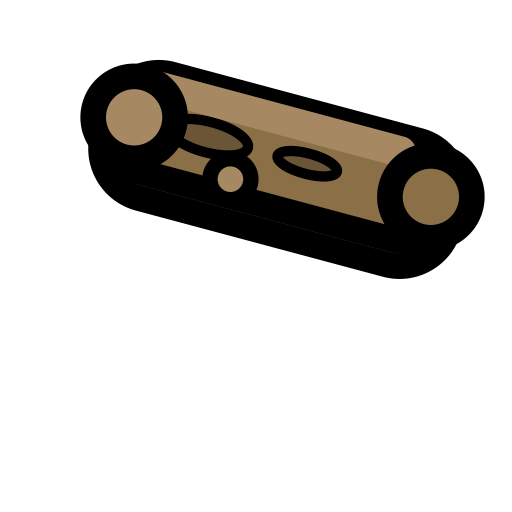
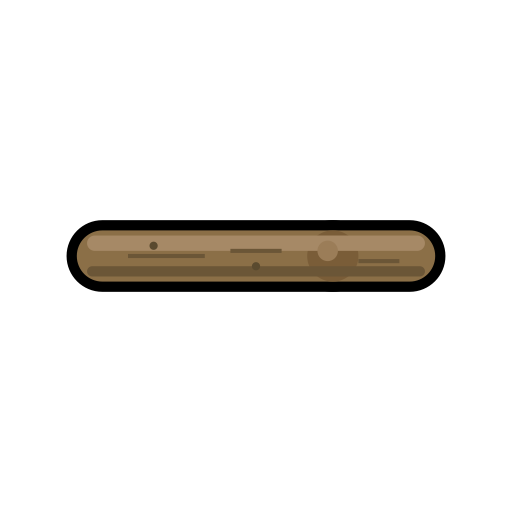
better assets generation

Changed region(s): [[0.125, 0.0938, 0.9688, 0.5938]]

diff --git a/src/render/textures.rs b/src/render/textures.rs
@@ -24,7 +24,7 @@ pub fn load_png_from_bytes(png_data: &[u8]) -> Result<Texture2D, String> {
 /// Get embedded PNG data for an object by name
 pub fn get_object_png(name: &str) -> Option<&'static [u8]> {
     match name {
-        "rock" => Some(include_bytes!("../../assets/rock.png")),
+        "rock" => Some(include_bytes!("../../assets/boulder.png")),
         "tree" => Some(include_bytes!("../../assets/tree.png")),
         "stick" => Some(include_bytes!("../../assets/stick.png")),
         _ => None,

diff --git a/.claude/commands/svg_draw.md b/.claude/commands/svg_draw.md
@@ -1,11 +1,11 @@
 ---
-description: Draw an object as SVG in Super Auto Pets style
+description: Draw an object as SVG in a cute cartoon style
 model: opus
 ---
 
 # Draw: $ARGUMENTS
 
-Generate an SVG of "$ARGUMENTS" in Super Auto Pets style.
+Generate an SVG of "$ARGUMENTS" in a cute cartoon style with bold outlines.
 
 ## Style Requirements
 
@@ -14,31 +14,39 @@ Generate an SVG of "$ARGUMENTS" in Super Auto Pets style.
    - **Base**: Main fill color
    - **Highlight**: 10-20% lighter, used for top/light-facing areas
    - **Shadow**: 10-20% darker, used for bottom/shadow areas
-3. **Outlines**: Every visible shape gets `stroke="#000" stroke-width="5"`
-4. **Shapes**: Use only:
+3. **Shapes**: Use only:
    - `<circle>` and `<ellipse>` for rounded forms
    - `<rect rx="...">` with rounded corners
    - `<polygon>` for simple angular shapes
    - `<path>` for simple curves (no complex bezier chains)
-5. **No gradients, no filters, no animations, no effects**
-6. **Layer order**: Draw back-to-front (background shapes first)
+4. **No gradients, no filters, no animations, no effects**
 
-## Composition Guidelines
+## Layering Process
 
-- Object should fill 70-90% of the viewBox
-- Center the object in the canvas
-- Use cute/rounded proportions (Super Auto Pets style)
-- If it has a face: white circle eyes with black dot pupils, or simple dot eyes
-- Simple expressions only (dots, small curves)
+Draw in this order (back to front):
+
+1. **Outline layer**: Draw each base shape in BLACK, slightly larger (add ~3-5 units to radii/dimensions). This creates the outline by being visible around the edges of the colored shapes.
+2. **Base shapes**: Draw the same shapes at normal size with their base colors. These sit on top of the black shapes, leaving a black border visible around the edges.
+3. **Detail shapes**: Draw highlights, shadows, and features WITHIN the bounds of the base shapes.
+4. **Line details**: Draw any internal line details on top. Lines can connect to the outline edges only if they are black.
+
 
 ## Example Structure
 
 ```svg
 <svg viewBox="0 0 100 100" xmlns="http://www.w3.org/2000/svg">
-  <!-- Back layers first -->
-  <ellipse cx="50" cy="60" rx="35" ry="30" fill="#8B4513" stroke="#000" stroke-width="5"/>
-  <!-- Front layers last -->
-  <circle cx="50" cy="45" rx="25" fill="#A0522D" stroke="#000" stroke-width="5"/>
+  <!-- 1. OUTLINE LAYER: Same shapes as base, but larger and black -->
+  <ellipse cx="50" cy="60" rx="38" ry="33" fill="#000"/>
+  <circle cx="50" cy="45" r="28" fill="#000"/>
+  
+  <!-- 2. BASE SHAPES: Normal size with color (covers most of the black) -->
+  <ellipse cx="50" cy="60" rx="35" ry="30" fill="#8B4513"/>
+  <circle cx="50" cy="45" r="25" fill="#A0522D"/>
+  
+  <!-- 3. DETAIL SHAPES: Highlights, shadows, features within base bounds -->
+  <ellipse cx="45" cy="40" rx="8" ry="5" fill="#B8763D"/>
+  
+  <!-- 4. LINE DETAILS: Internal lines, can connect to black edges -->
 </svg>
 ```
 
